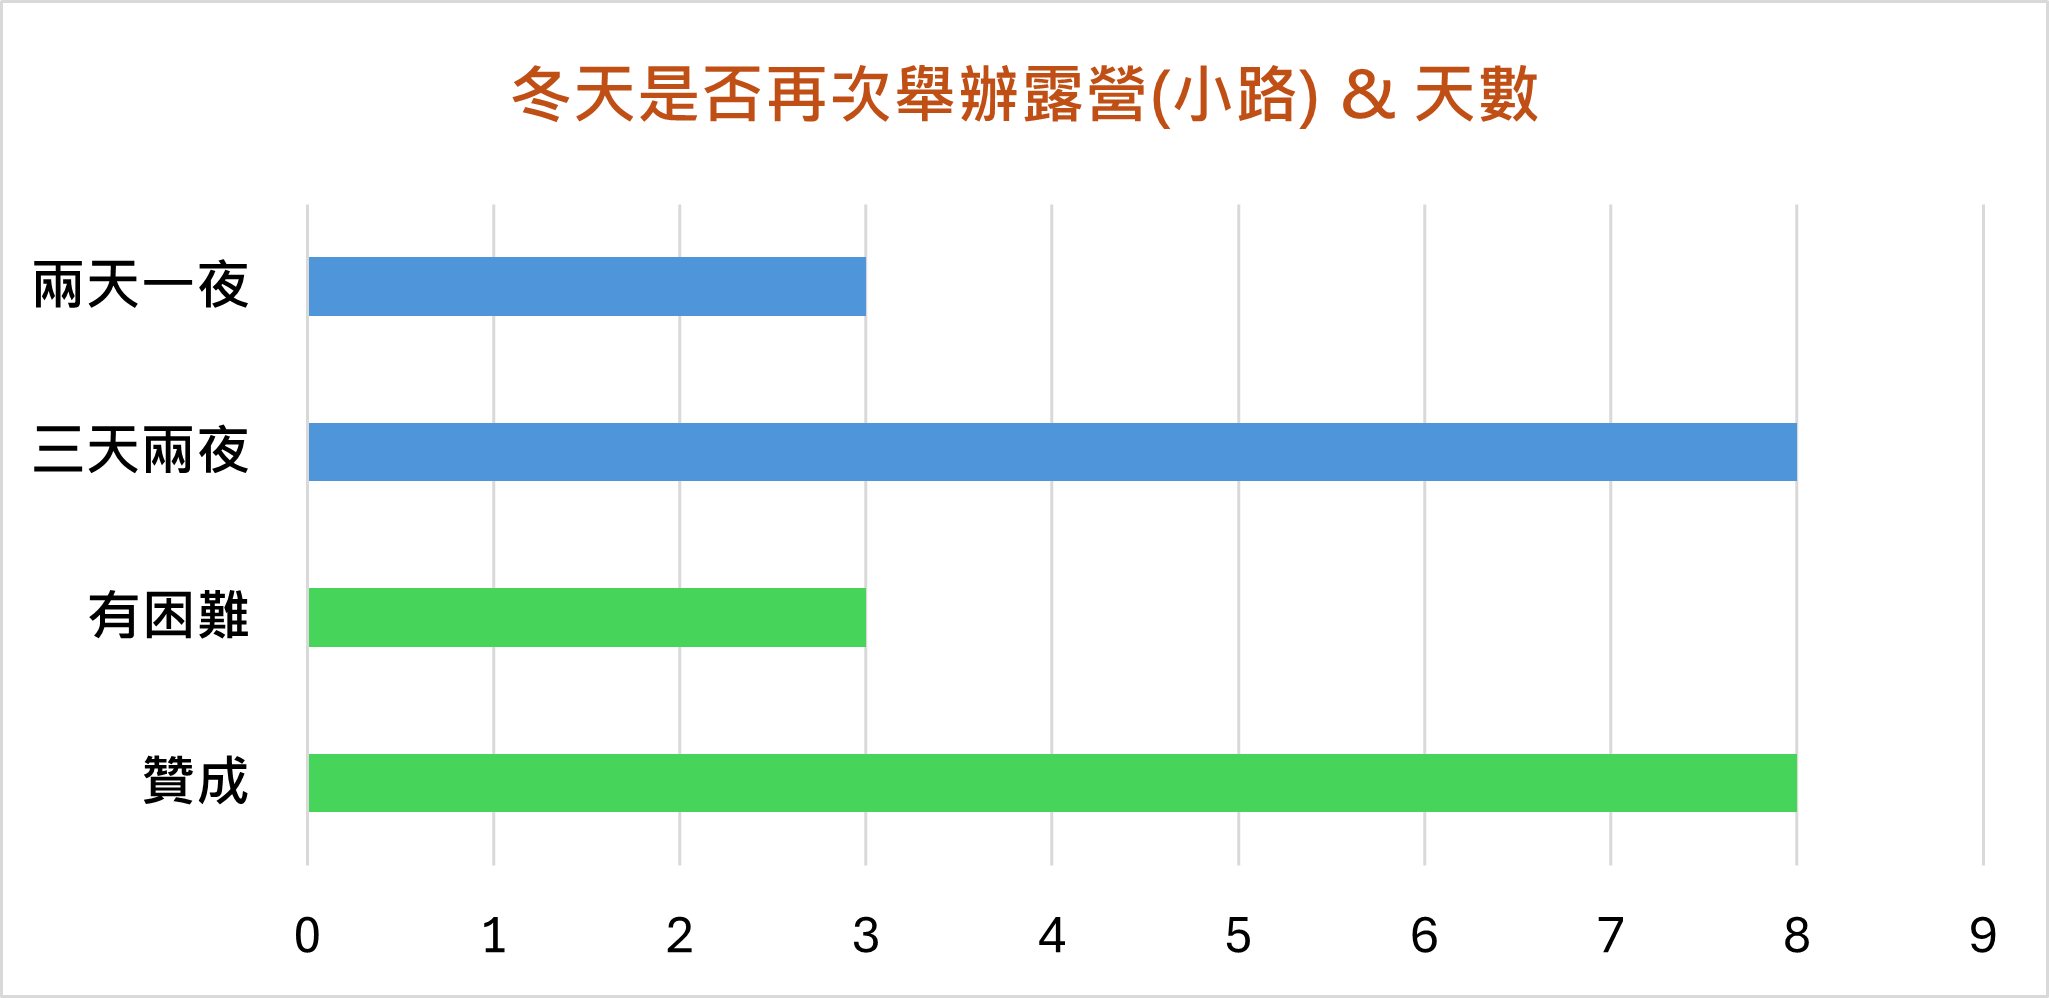
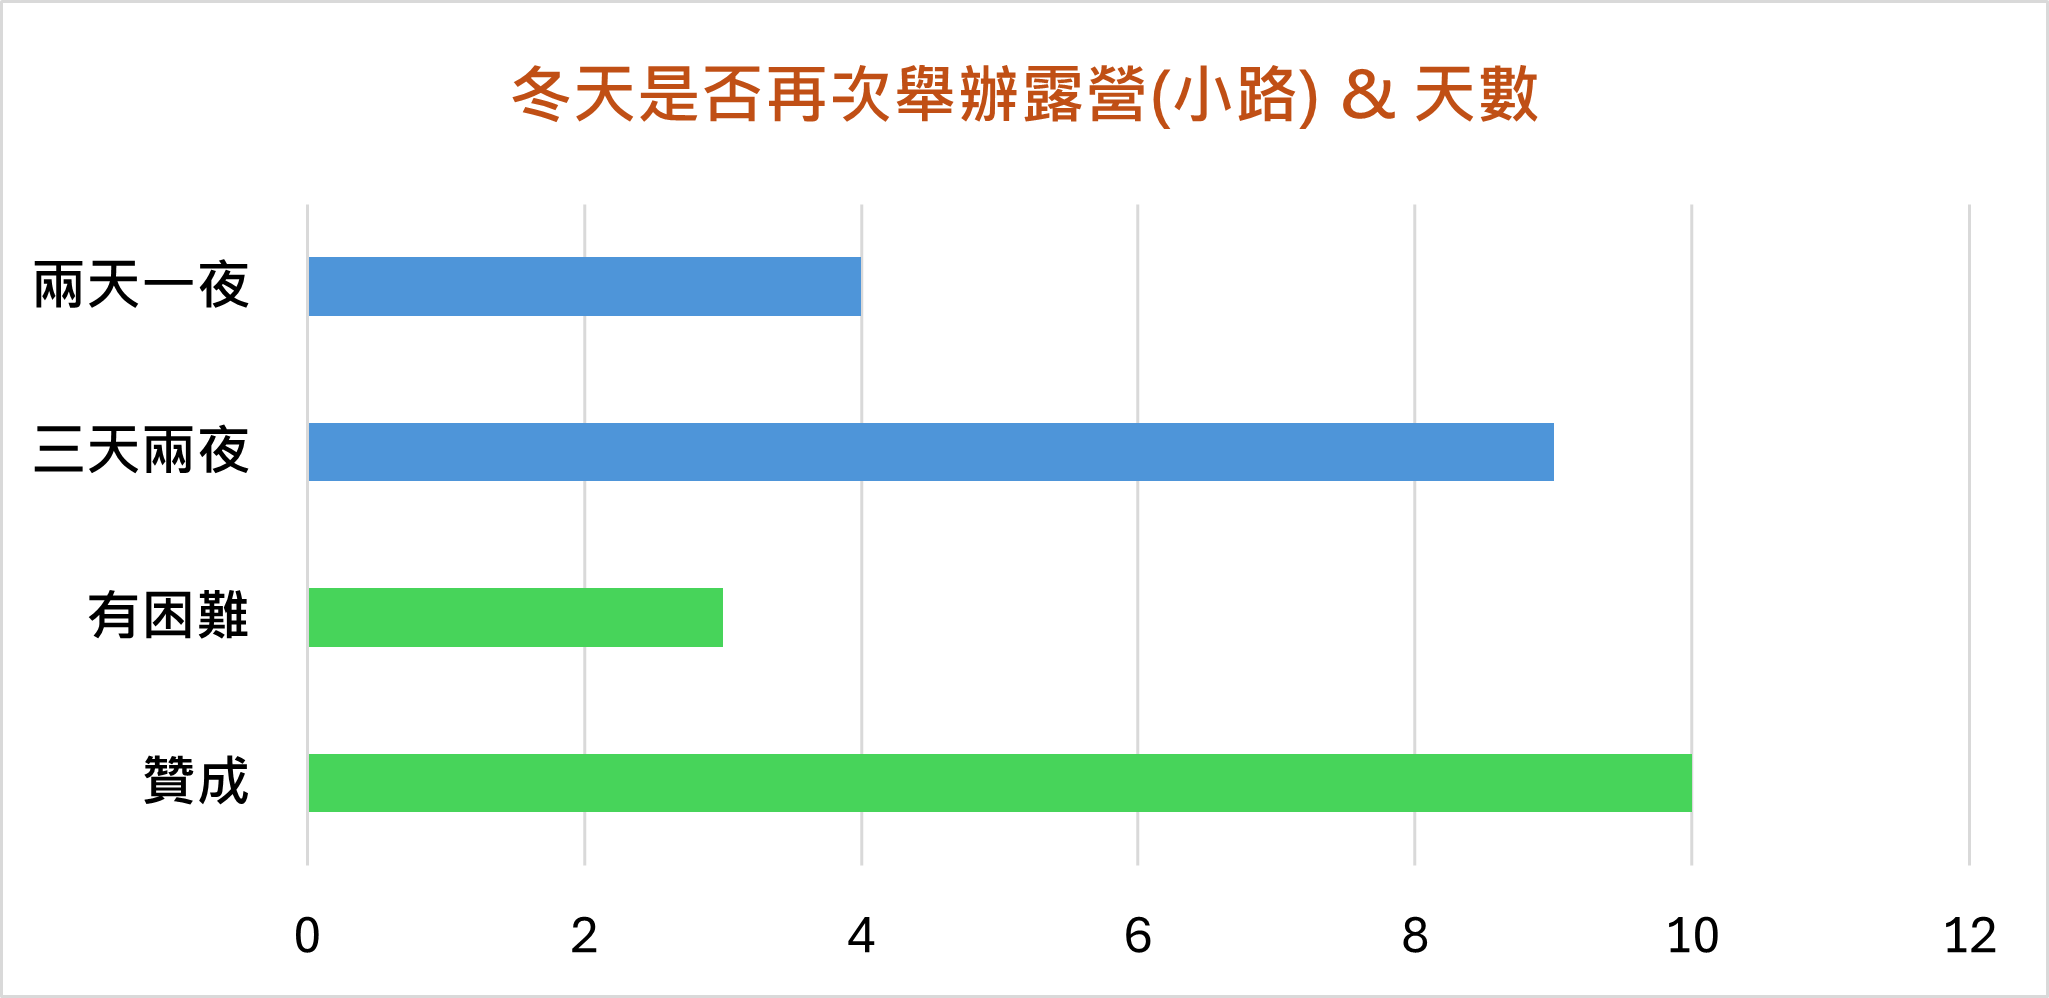
Add files via upload

diff --git a/result.py b/result.py
@@ -134,7 +134,9 @@ feedback_A = [
     "育德又帥又會企劃，家綾姊很罩、最會照顧大家，瑋瑋顏值擔當（？）反差萌（？）",
     "很感謝這次規劃的哥哥姐姐們，大家百忙之中抽空參與討論，一起為這次的旅遊盡一份心力，讓這次活動添加許多回憶。讓我看見大家都各奔東西，還會互相關心大家的生活狀況，一起談心說笑，這是很少家族有的團結和向心力，是這次我很喜歡的一個環節。建議的部分就是，營地可以選高海拔的地點，比較舒適。",
     "主辦辛苦了",
-    "初露大成功～氣氛、天氣及地點，無論哪一項都很棒，感謝大家都很有默契的配合。"
+    "初露大成功～氣氛、天氣及地點，無論哪一項都很棒，感謝大家都很有默契的配合。",
+    "可以再多天一點",
+    "三位主辦都很棒，完美！"
 ]
 
 # --- 整理後的 B 資料集 ---
@@ -149,7 +151,9 @@ feedback_B = [
     "如果要三天兩夜我只能月底🥹🥹🥹。社畜的悲哀",
     "每年舉辦一次簡單的露營，營地可以不同地方，比較有新鮮感，也可以欣賞不同景點，CP值高。資金許可，可往包棟、外島的方向列入名單。依季節可以增加活動項目，像是夏季可以遊樂園的水上設施、海上活動，冬季泡湯等項目。",
     "私心想要三天兩夜，但是兩天一夜比較好排假",
-    "很期待再次家旅，但也明白時間上的配合是最大難題，不過初露的成功也意謂這道高牆是可以被跨越的。希望大家熱絡的氛圍不止體現在家旅上，平時在群組說說幹話、分享事物都是點燃家族溫度的火種。"
+    "很期待再次家旅，但也明白時間上的配合是最大難題，不過初露的成功也意謂這道高牆是可以被跨越的。希望大家熱絡的氛圍不止體現在家旅上，平時在群組說說幹話、分享事物都是點燃家族溫度的火種。",
+    "海外旅遊 如沖繩 ",
+    "建議一直辦到老！"
 ]
 
 # 渲染兩大回饋區塊
